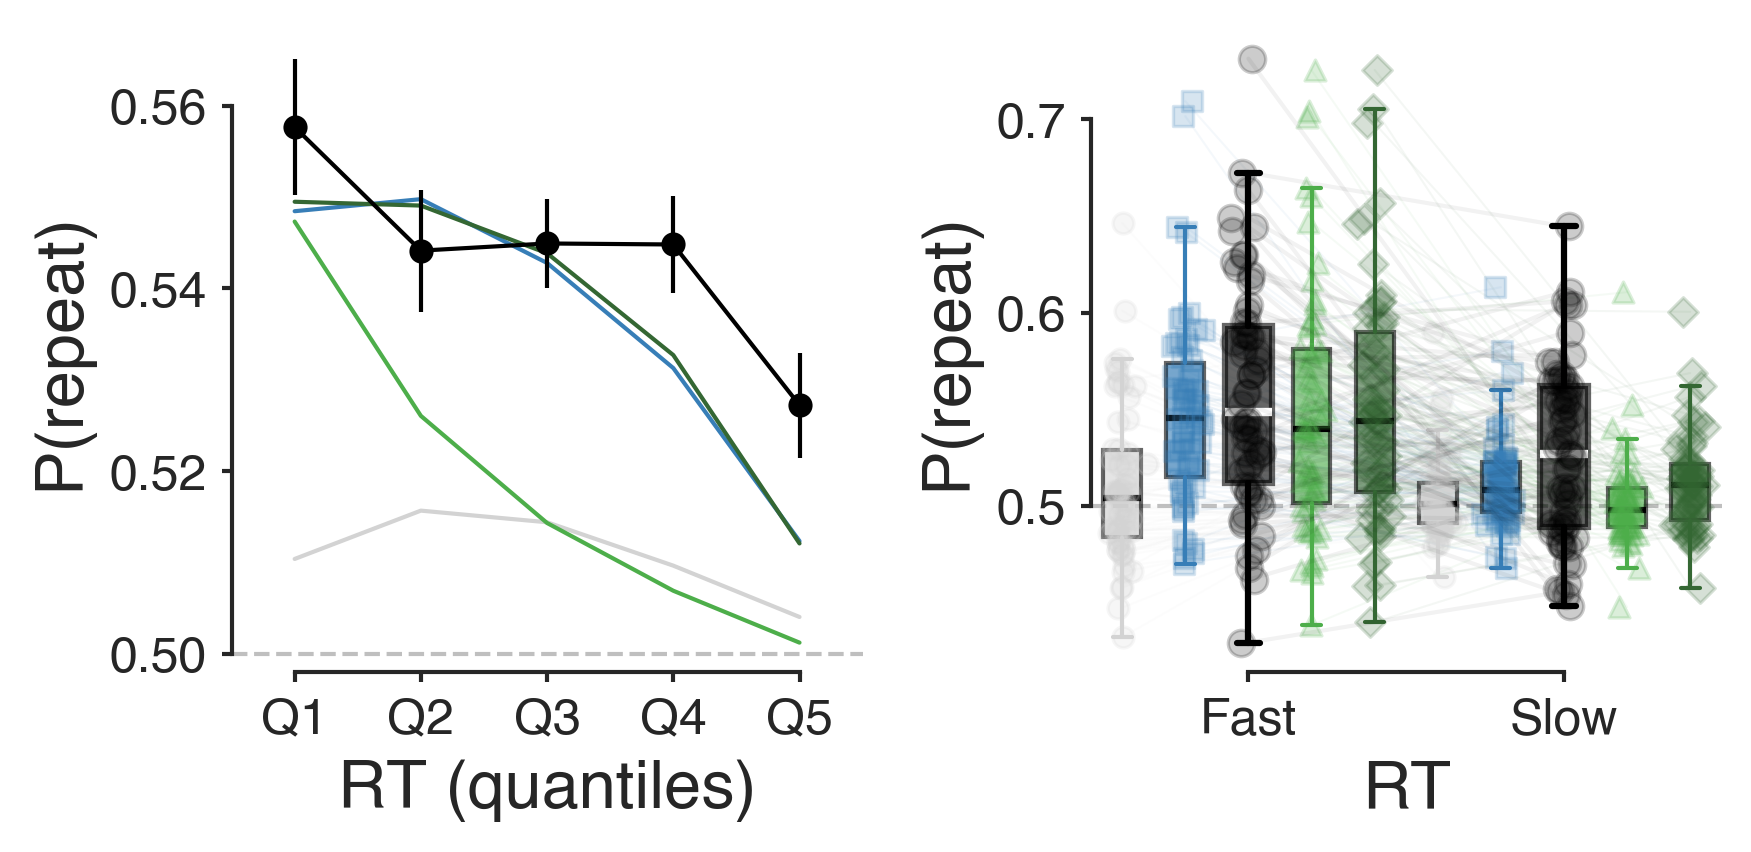
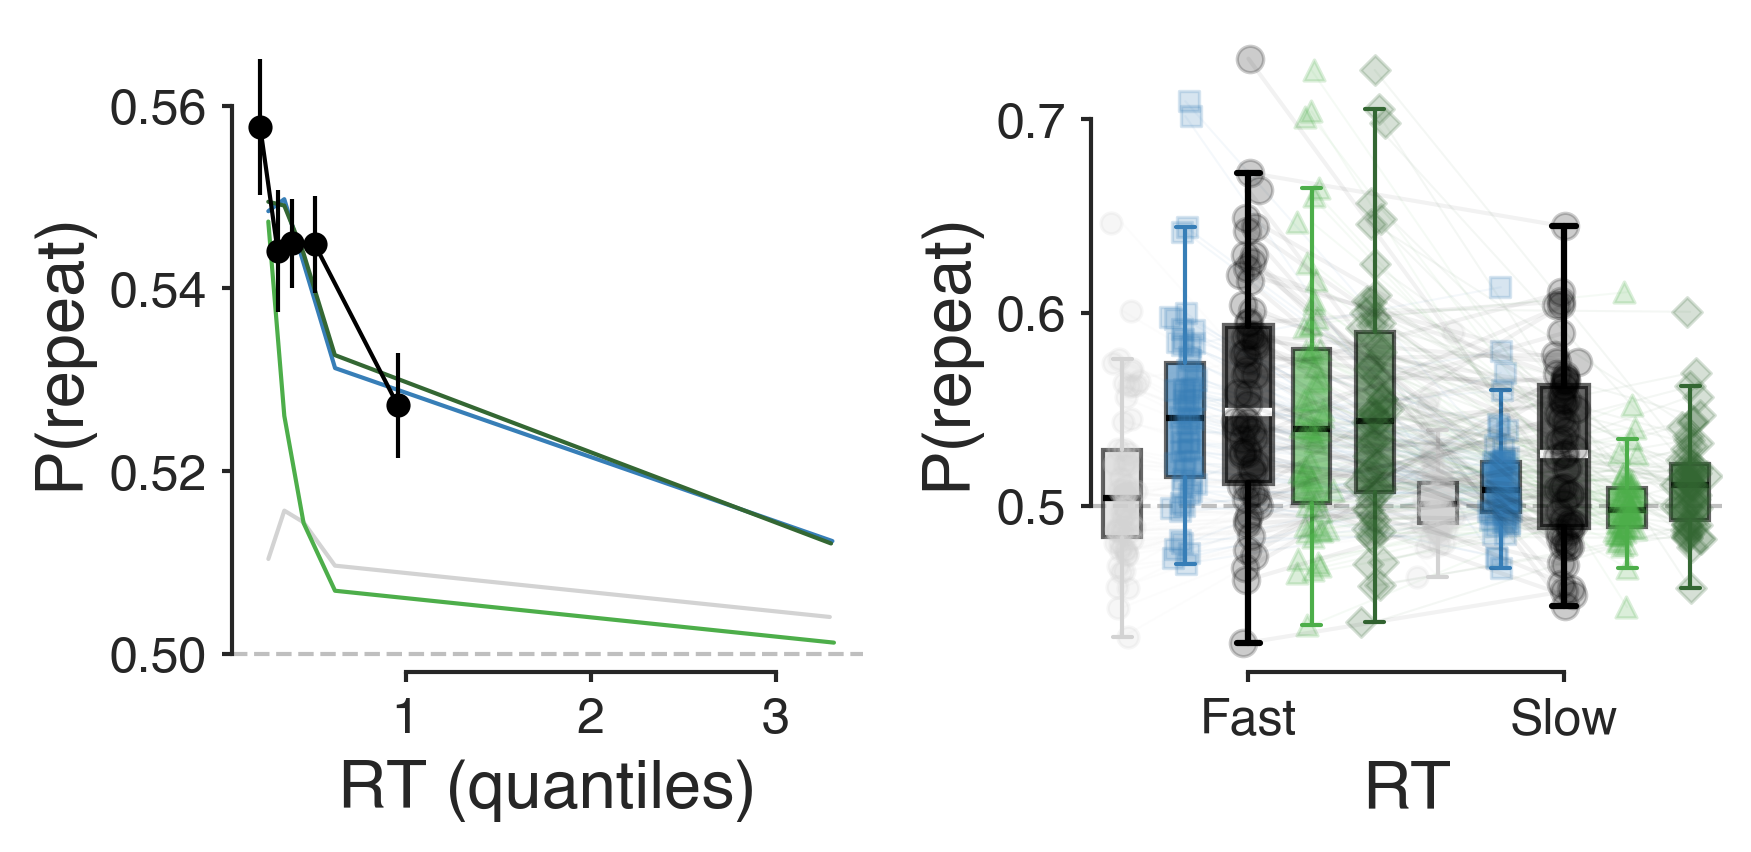
conditional bias funcs

diff --git a/src/plotting/plot_simulated_conditional_bias_function.py b/src/plotting/plot_simulated_conditional_bias_function.py
@@ -494,7 +494,7 @@ def plot_simulated_conditional_bias_function(summary, subject_df, obs_summary=No
             # Plot model mean with error bars
 
             sns.lineplot(ax=ax1, data=model_summary,
-                         x='rt_quantile', y='choice_bias_mean',
+                         x='rt_mean', y='choice_bias_mean',
                          color=color)
             # ax1.errorbar(
             #     model_summary['rt_quantile'], 
@@ -530,7 +530,7 @@ def plot_simulated_conditional_bias_function(summary, subject_df, obs_summary=No
         #                  errorbar='choice_bias_sem',
         #                  markers=True)
         ax1.errorbar(
-            obs_summary['rt_quantile'], 
+            obs_summary['rt_mean'], 
             obs_summary['choice_bias_mean'], 
             yerr=obs_summary['choice_bias_sem'],
             fmt='-o', 
@@ -549,11 +549,11 @@ def plot_simulated_conditional_bias_function(summary, subject_df, obs_summary=No
     ax1.set_ylabel('P(repeat)')
     # ax1.set_title('A. Model Predictions: Conditional Bias', fontweight='bold', pad=15)
     
-    # Set axis limits and ticks
-    ax1.set_xlim(-0.5, n_quantiles-0.5)
-    ax1.set_xticks(range(n_quantiles))
-    ax1.set_xticklabels([f'Q{i+1}' for i in range(n_quantiles)])
-    ax1.set_xticklabels('')
+    # # Set axis limits and ticks
+    # ax1.set_xlim(-0.5, n_quantiles-0.5)
+    # ax1.set_xticks(range(n_quantiles))
+    # ax1.set_xticklabels([f'Q{i+1}' for i in range(n_quantiles)])
+    # ax1.set_xticklabels('')
     
     # Legend will be added at the figure level later
     
